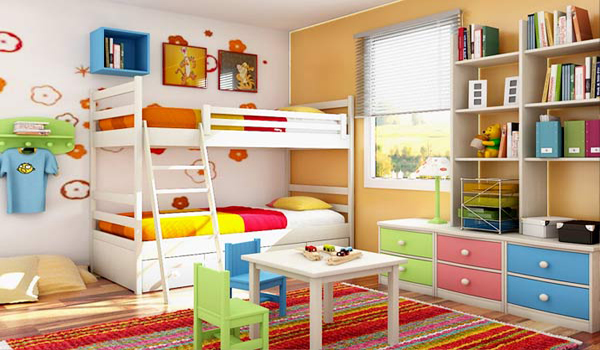
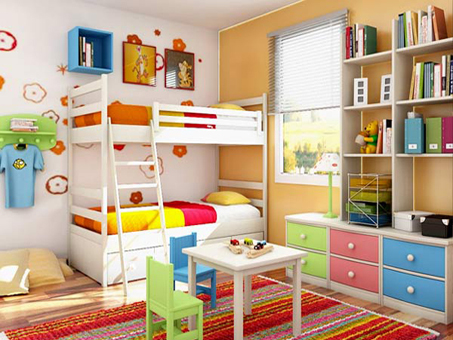
bugs were fixed

diff --git a/app/src/main/java/com/adeco/finddifferences/game/Game.java b/app/src/main/java/com/adeco/finddifferences/game/Game.java
@@ -101,20 +101,27 @@ public class Game extends Application implements Drawable, Touchable, Destroyabl
         Display display = wm.getDefaultDisplay();
 
 
+        int d_height = (display.getHeight()-192)/2;
+        double d_scaleFactor = (double) d_height / imgHeight;
+        int d_width = (int) (d_scaleFactor * imgWidth);
+        img1 = Bitmap.createScaledBitmap(img1raw, d_width, d_height, false);
+        img2 = Bitmap.createScaledBitmap(img2raw, d_width, d_height, false);
+
         int width = display.getWidth();
-        double scaleFactor = (double) width / imgWidth;
-        int height = (int) (scaleFactor * imgHeight);
-        img1 = Bitmap.createScaledBitmap(img1raw, width, height, false);
-        img2 = Bitmap.createScaledBitmap(img2raw, width, height, false);
+        int new_width = (width-img1.getWidth())/2;
+        //double scaleFactor = (double) width / imgWidth;
+        //int height = (int) (scaleFactor * imgHeight);
+        //img1 = Bitmap.createScaledBitmap(img1raw, width, height, false);
+        //img2 = Bitmap.createScaledBitmap(img2raw, width, height, false);
 
 
         DifferencePoint[] diffs = level.getDiffs();
         DifferencePoint[] scaledDiffs = new DifferencePoint[diffs.length];
         for (int i = 0; i < diffs.length; i++) {
-            scaledDiffs[i] = diffs[i].scale(scaleFactor);
+            scaledDiffs[i] = diffs[i].scale(d_scaleFactor);
         }
 
-        Consts.applyScale(scaleFactor);
+        Consts.applyScale(d_scaleFactor);
 
         StateController stateController = new StateController(levelStorage);
         stateController.addHandler(popupController);
@@ -122,7 +129,7 @@ public class Game extends Application implements Drawable, Touchable, Destroyabl
         scoreController = new ScoreController(activity);
         levelStorage.setScoreController(scoreController);
 
-        pictureLayer = new PictureLayer(img1, img2, scaledDiffs, new StatisticHandler[]{statisticHandler, scoreController, stateController}, differenceHandlers);
+        pictureLayer = new PictureLayer(width, img1, img2, scaledDiffs, new StatisticHandler[]{statisticHandler, scoreController, stateController}, differenceHandlers);
         stateController.addHandler(levelStorage);
 
         stateController.addHandler(pictureLayer);

diff --git a/app/src/main/java/com/adeco/finddifferences/GameActivity.java b/app/src/main/java/com/adeco/finddifferences/GameActivity.java
@@ -58,11 +58,6 @@ public class GameActivity extends Activity implements StatisticHandler, Differen
         //this.mWakeLock.acquire();
 
         getWindow().addFlags(WindowManager.LayoutParams.FLAG_KEEP_SCREEN_ON);
-        WindowManager wm = (WindowManager) getSystemService(Context.WINDOW_SERVICE);
-        Display display = wm.getDefaultDisplay();
-        int width = display.getWidth();
-        int height = display.getHeight();
-        double scale = ((double)width)/height;
 
         stopWatch = new Stopwatch();
 
@@ -78,18 +73,6 @@ public class GameActivity extends Activity implements StatisticHandler, Differen
         right_touches.setTypeface(tf);
         timer.setTypeface(tf);
 
-
-       /* if (scale < 0.75)
-        {
-            LinearLayout topPanel = (LinearLayout) findViewById(R.id.top_panel);
-            ViewGroup.LayoutParams params = topPanel.getLayoutParams();
-            params.height = 150;
-            tries.setTextSize(23);
-            tries_txt.setTextSize(23);
-            right_touches.setTextSize(23);
-            right_touches_txt.setTextSize(23);
-            timer.setTextSize(23);
-        }*/
 
         popupController = new Popups(this, this, (Game) getApplicationContext(), getIntent());
 

diff --git a/app/src/main/java/com/adeco/finddifferences/game/logic/PictureLayer.java b/app/src/main/java/com/adeco/finddifferences/game/logic/PictureLayer.java
@@ -19,10 +19,11 @@ import com.adeco.finddifferences.game.statistics.StatisticHandler;
 public class PictureLayer implements Drawable, Touchable, GameStateHandler {
     private TouchManager touchManager;
 
-    public PictureLayer(Bitmap img1, Bitmap img2, DifferencePoint[] diffs, StatisticHandler[] statisticHandlers, DifferenceFoundHandler[] differenceFoundHandlers) {
+    public PictureLayer(int width, Bitmap img1, Bitmap img2, DifferencePoint[] diffs, StatisticHandler[] statisticHandlers, DifferenceFoundHandler[] differenceFoundHandlers) {
+        int new_width = (width-img1.getWidth())/2;
         Paint paint = new Paint();
-        TouchHandler top = new HalfPicture(new Point(0, 0), img1, paint);
-        TouchHandler bottom = new HalfPicture(new Point(0, img1.getHeight()), img2, paint);
+        TouchHandler top = new HalfPicture(new Point(new_width, 0), img1, paint);
+        TouchHandler bottom = new HalfPicture(new Point(new_width, img1.getHeight()), img2, paint);
         touchManager = new TouchManager(diffs, top, bottom, statisticHandlers, differenceFoundHandlers);
     }
 

diff --git a/app/src/main/java/com/adeco/finddifferences/MainActivity.java b/app/src/main/java/com/adeco/finddifferences/MainActivity.java
@@ -116,6 +116,10 @@ public class MainActivity extends Activity {
                     }
                 });
 
+                vibro_cb.setChecked(((Game) getApplicationContext()).getSettings().Vibro);
+                music_cb.setChecked(((Game) getApplicationContext()).getSettings().Music);
+                sound_cb.setChecked(((Game) getApplicationContext()).getSettings().Sound);
+
                 WindowManager.LayoutParams lp = new WindowManager.LayoutParams();
                 lp.copyFrom(alert.getWindow().getAttributes());
                 lp.width = WindowManager.LayoutParams.MATCH_PARENT;

diff --git a/app/src/main/java/com/adeco/finddifferences/game/popups/Popups.java b/app/src/main/java/com/adeco/finddifferences/game/popups/Popups.java
@@ -185,7 +185,7 @@ public class Popups implements PopupController {
 
         final Dialog alert = new Dialog(context);
         alert.setCanceledOnTouchOutside(false);
-        alert.setCancelable(false);
+        //alert.setCancelable(false);
         alert.requestWindowFeature(Window.FEATURE_NO_TITLE);
         alert.setContentView(R.layout.dialog_complete);
         alert.getWindow().setBackgroundDrawable(new ColorDrawable(Color.TRANSPARENT));
